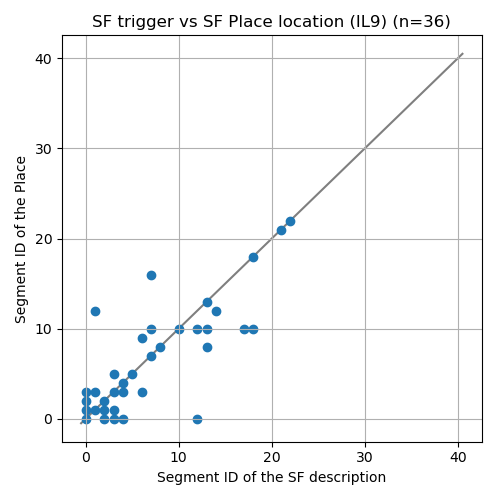
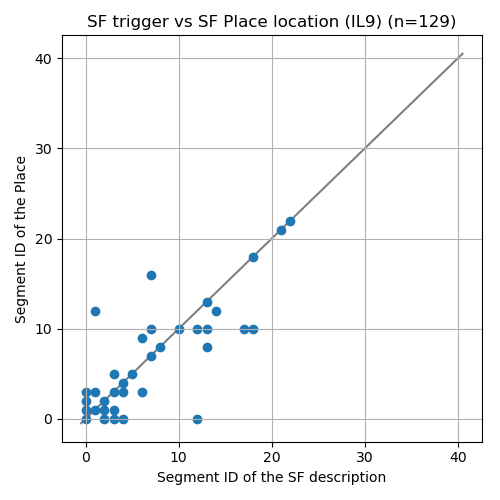
Update figures

Changed region(s): [[0.18, 0.03, 0.93, 0.06]]

diff --git a/get_loc_stats.py b/get_loc_stats.py
@@ -160,7 +160,7 @@ def print_stats(sfs, docs, ignore_doc_no_sf=False, span_to_entity_id={}, entitie
     # plt.scatter(seg_nums, loc_seg_nums, c=counts)
     plt.ylabel('Segment ID of the Place')
     plt.xlabel('Segment ID of the SF description')
-    plt.title('SF trigger vs SF Place location ({}) (n={})'.format(lang, len(seg_nums)))
+    plt.title('SF trigger vs SF Place location ({}) (n={})'.format(lang, sf_with_place))
     plt.grid()
     plt.tight_layout()
     plt.savefig(scatter_figpath)
